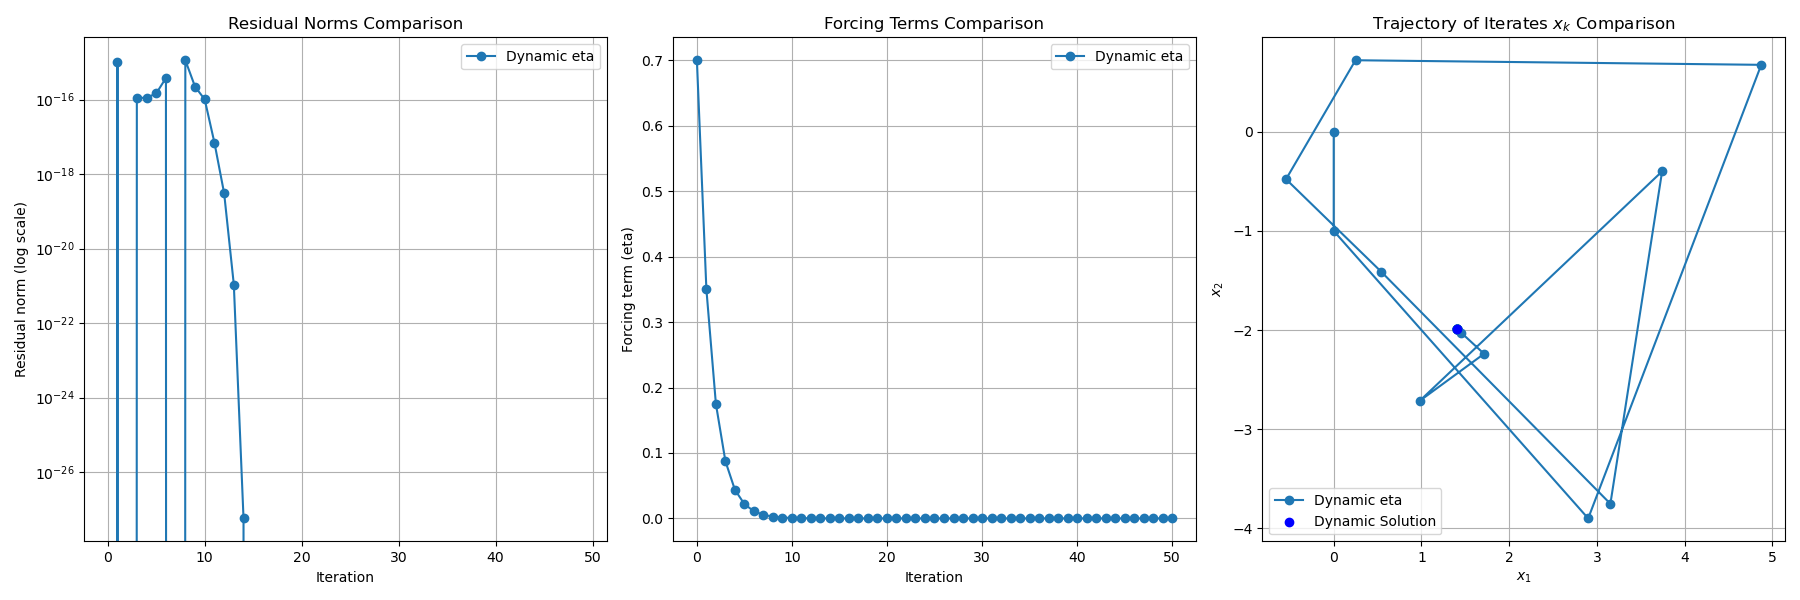
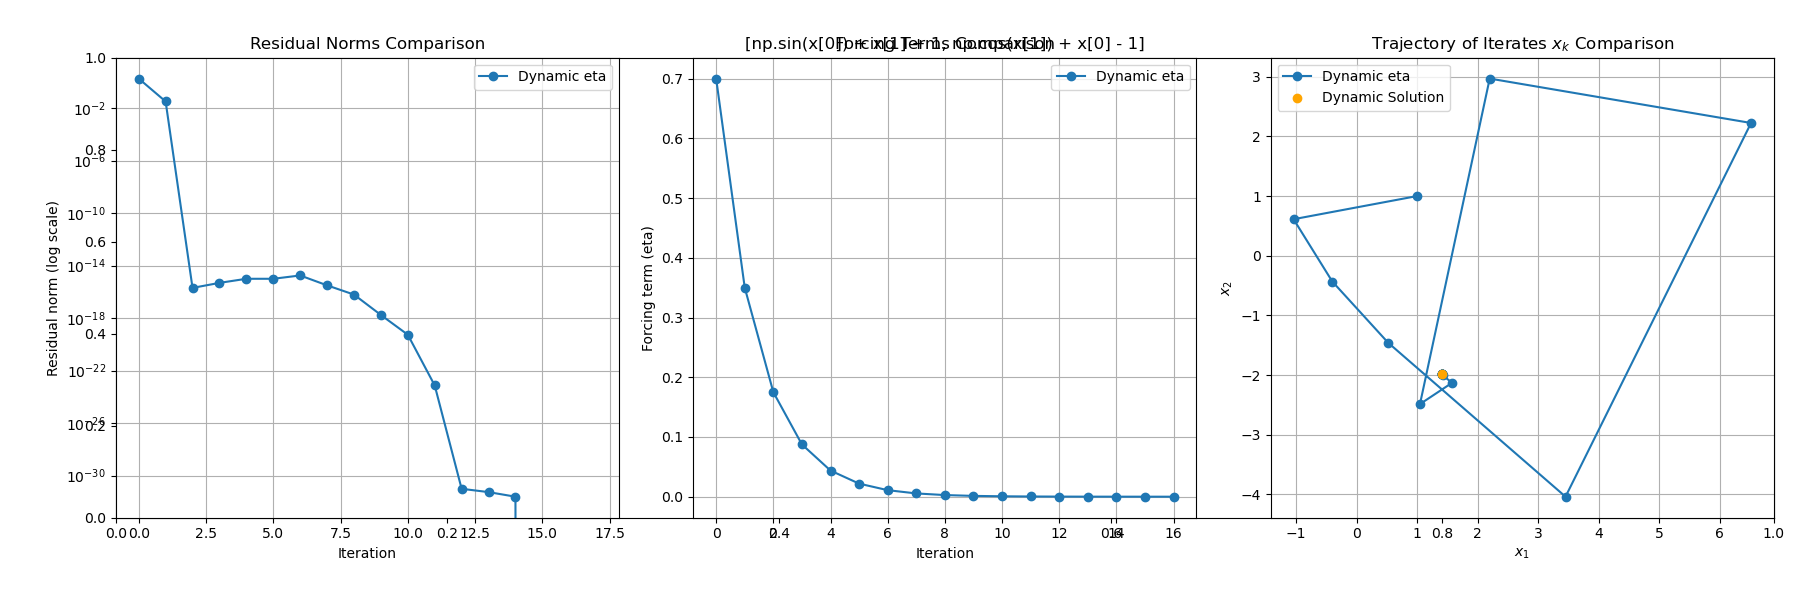
Fixed some things

diff --git a/app/newton.py b/app/newton.py
@@ -14,7 +14,7 @@ def fp(x):
     return np.array([[np.cos(x[0]), 1],
                      [1, -np.sin(x[1])]])
 
-def visualize_lines(points, residuals, etas, filename='test.png'):
+def visualize_lines(points, residuals, eta, filename='test.png'):
     """
     Visualizes a list of 2D points [x, y] by connecting successive points with dotted lines,
     coloring points orange except the last one, which is blue, and annotating each point with its order.
@@ -41,8 +41,8 @@ def visualize_lines(points, residuals, etas, filename='test.png'):
 
     # Forcing terms comparison
     plt.subplot(1, 3, 2)
-    plt.plot(etas, marker='o', label='Dynamic eta')
-    # plt.plot(range(len(etas_fixed)), etas_fixed, 'r--', label='Fixed eta (0.5)')
+    plt.plot(eta, marker='o', label='Dynamic eta')
+    # plt.plot(range(len(eta_fixed)), eta_fixed, 'r--', label='Fixed eta (0.5)')
     plt.xlabel('Iteration')
     plt.ylabel('Forcing term (eta)')
     plt.title('Forcing Terms Comparison')
@@ -90,34 +90,38 @@ def visualize_lines(points, residuals, etas, filename='test.png'):
     # # Display the plot
     # plt.savefig(filename)
 
-def inexact_newton(x0, tol=1e-25, max_iter=100, eta_max = 0.7):
+def inexact_newton(x0, eta='fast', tol=1e-25, max_iter=100, eta_max = 0.7):
     """Inexact Newton using GMRES for step size"""
     x = [x0]
     residuals = []
     s = []
-    etas = [eta_max]
+    if eta=='slow':
+        eta = [eta_max/(n+1) for n in range(max_iter)]
+    else:
+        eta = [eta_max / (2**n) for n in range(max_iter)]
+    # eta = [eta_max]
     # eta_k = eta_max
 
     for k in range(max_iter):
         # Approx solution to (1.2)
         # norm(b - A @ x) <= max(rtol*norm(b), atol)
-        s_k = gmres(fp(x[-1]), -f(x[-1]), rtol=etas[-1])
+        s_k = gmres(fp(x[-1]), -f(x[-1]), rtol=eta[k])
         residuals.append(np.linalg.norm(np.matmul(fp(x[-1]),s_k[0]) + f(x[-1])))
         # print(s_k[0])
         s.append(s_k[0])
         # Generate next x_k
         x.append(x[-1] + s_k[0])
         # Generate next eta using eta_{k-1} / 2
-        etas.append(etas[-1] / 2)
-        if etas[-1] < tol:
+        if eta[k] < tol:
+            eta = eta[:k]
             break
             
     print(f'F: {f(x)}')
     print(f'x: {x}')
     # print(f's: {s}')
     # print(f'r: {residuals}')
-    print(f'etas: {etas}')
-    return x, residuals, etas
+    print(f'eta: {eta}')
+    return x, residuals, eta
 
 
     # x = [1.,-2.]
@@ -133,6 +137,6 @@ def inexact_newton(x0, tol=1e-25, max_iter=100, eta_max = 0.7):
     
 
 if __name__ == "__main__":
-    x, residuals, etas = inexact_newton(np.array([0,0]),tol=1e-15, max_iter=100, eta_max = 0.7)
-    visualize_lines(x, residuals, etas, filename='test.png')
+    x, residuals, eta = inexact_newton(np.array([1,1]), eta='fast', tol=1e-5, max_iter=100, eta_max = 0.7)
+    visualize_lines(x, residuals, eta, filename='main_example.png')
 
